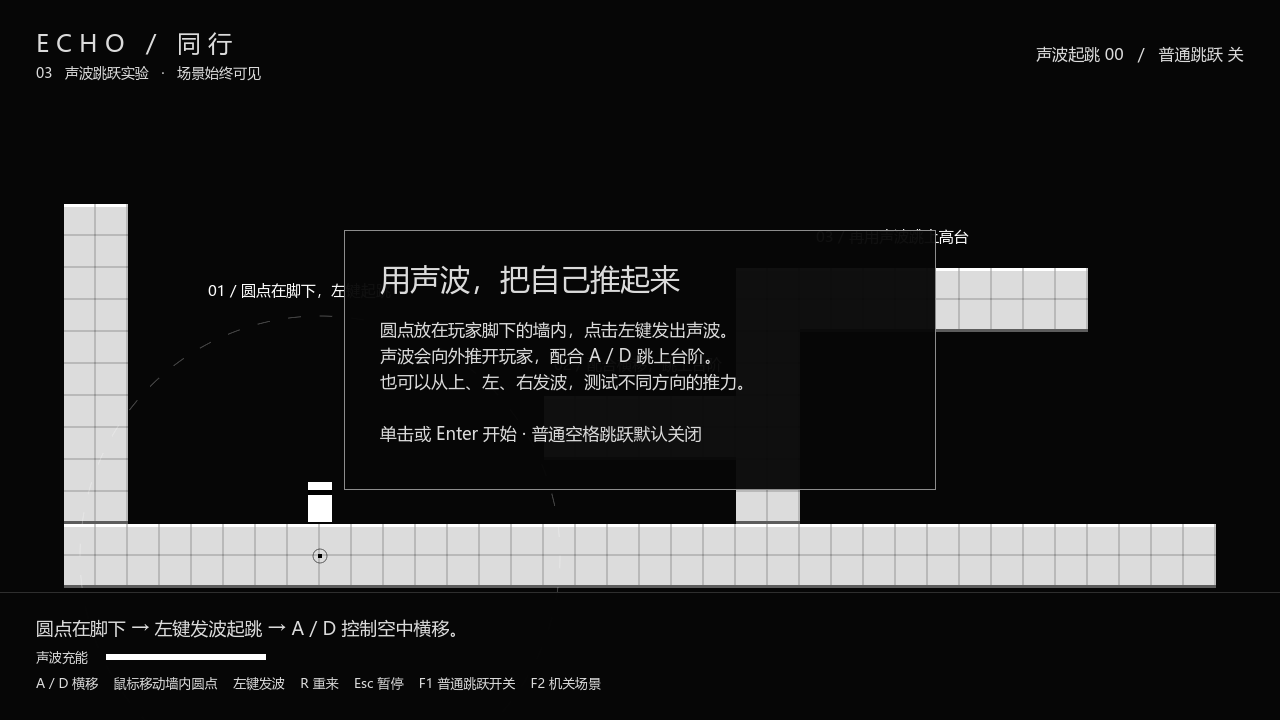
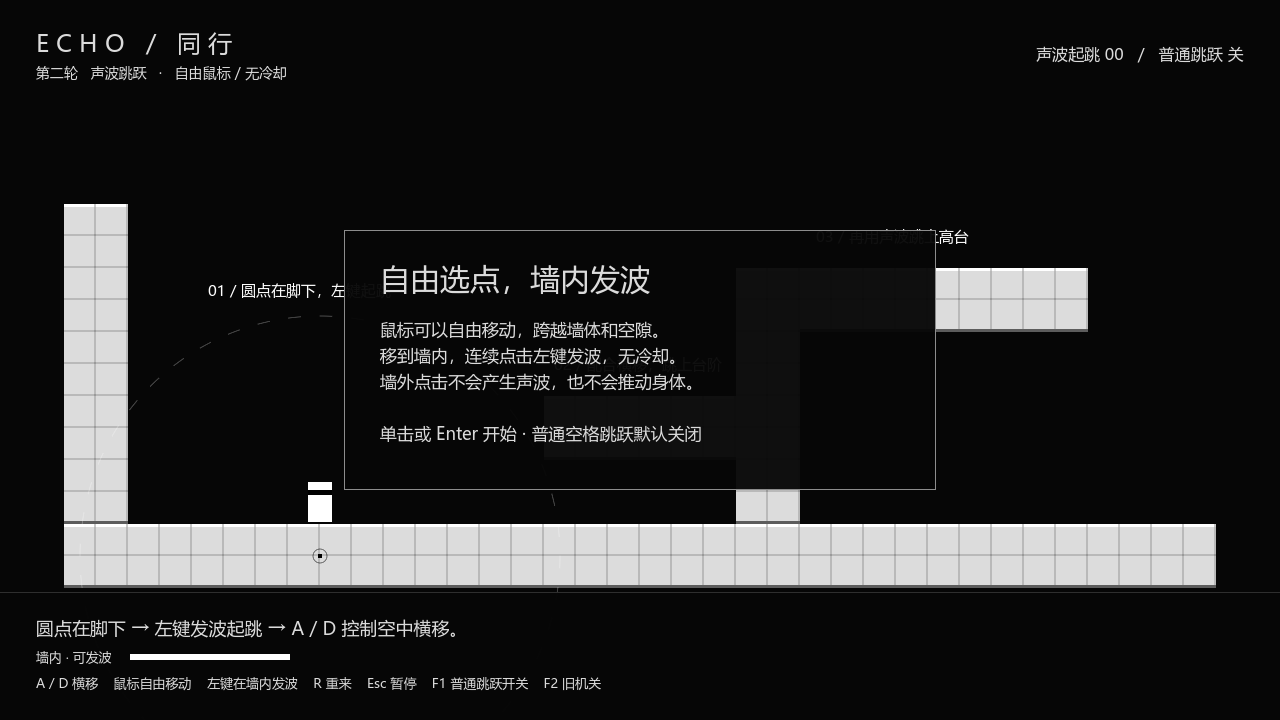
feat: allow free cursor with wall-only zero-cooldown pulses

diff --git a/README.md b/README.md
@@ -1,6 +1,6 @@
 # ECHO / 同行 · Godot 白盒
 
-**当前优先测试声波跳跃。** 场景始终可见，玩家用 A / D 横移；鼠标控制墙内的小圆点，点击产生有限范围的声波，从下方把玩家推离地面，配合空中横移跳上台阶。也能测试向下、向左、向右的推力，以及撞墙反弹。
+**当前为第二轮声波跳跃测试。** 场景始终可见，玩家用 A / D 横移；鼠标可以自由移动，只有在墙体内部点击才会产生有限范围的声波。声波默认无冷却，可连续点击，从下方把玩家推离地面，配合空中横移跳上台阶。也能测试向下、向左、向右的推力，以及撞墙反弹。
 
 Godot **4.7.2 标准版 + GDScript**，无第三方插件，无需 .NET。完整工程入口为根目录 `project.godot`。项目根据当前讨论新建，未导入 WorkBuddy 原 demo 源码。
 
@@ -19,8 +19,8 @@ Windows 启动器会检查 `GODOT_EXE` 环境变量、系统命令和桌面的 G
 | 输入 | 功能 |
 |---|---|
 | A / D 或左右方向键 | 身体横移，空中也可控制方向 |
-| 移动鼠标 | 移动墙体内部的感知圆点 |
-| 鼠标左键 | 从圆点处发出声波 |
+| 移动鼠标 | 自由移动感知圆点，可直接跨越空隙 |
+| 鼠标左键 | 圆点在墙内时发波，无冷却；墙外点击无效 |
 | F1 | 开关普通空格跳跃，用于对比手感；默认关闭 |
 | R | 重置身体、圆点与当前声波 |
 | Esc | 暂停并释放鼠标 |
@@ -28,13 +28,13 @@ Windows 启动器会检查 `GODOT_EXE` 环境变量、系统命令和桌面的 G
 
 ## 如何验证跳跃
 
-1. 开始后，圆点已经位于身体脚下的地面内部。直接按左键即可向上起跳。
+1. 开始后，将鼠标移到身体脚下的地面内部，再按左键向上起跳。
 2. 身体靠近第一层台阶前，在脚下发波；起跳后配合 D 向右移动，落到台阶上。
-3. 将圆点从地面沿中间墙体移入第一层台阶，再从脚下发波，跳上第二层高台。
+3. 将鼠标直接移入第一层台阶内部，再从脚下发波，跳上第二层高台；无需沿墙体移动圆点。
 4. 把圆点放到身体的上方、左侧或右侧，可验证相反方向的推力。虚线圈表示声波最大范围。
 5. 用 A / D 撞击左墙或中间墙体，可观察反作用力和撞击波纹。
 
-声波按时间向外传播，每一波最多推同一玩家一次，范围外不受力。发波有短暂冷却。普通按键跳跃默认关闭；F1 开启后可用空格、W 或上方向键对比普通跳跃手感。
+声波按时间向外传播，每一波最多推同一玩家一次，范围外不受力。默认冷却为 `0`，每次点击都能发波；也可将 `pulse_cooldown` 调成 `0.05` 等小值对比手感。鼠标按实际屏幕位置自由移动，发波只检查指针尖端是否位于墙体内；圆点在墙外显示无效标记，不会生成波纹、消耗发波次数或推动玩家。普通按键跳跃默认关闭；F1 开启后可用空格、W 或上方向键对比普通跳跃手感。
 
 ## 保留的 L 形机关
 
@@ -46,7 +46,7 @@ Windows 启动器会检查 `GODOT_EXE` 环境变量、系统命令和桌面的 G
 4. 圆点及时向上转移到下落平台；同时身体赶到 2 号板。
 5. 保持踩住 2 号板，将圆点通过连桥送进左上出口。
 
-铃铛触发后 1 号通道保持接通，2 号板则需要持续踩住。当前版本地图和身体都可见，没有视野外死亡。L 形机关暂时使用普通跳跃；声波推力先在独立测试场验证，后续可接入机关。
+铃铛触发后 1 号通道保持接通，2 号板则需要持续踩住。地图和身体都可见，没有视野外死亡。这个保留场景仍使用早期的墙内圆点和普通跳跃规则；第二轮自由鼠标与声波推力在默认跳跃测试场验证，后续可接入机关。
 
 ![L 形机关地图](docs/previews/l-puzzle.png)
 
@@ -59,7 +59,7 @@ Windows 启动器会检查 `GODOT_EXE` 环境变量、系统命令和桌面的 G
 | `scripts/wave_jump_lab.gd` | 声波范围、强度、冷却与测试状态 |
 | `scripts/force_pulse.gd` | 波前传播、距离衰减、四向推力和单次命中 |
 | `scripts/player.gd` | 移动、起跳、空中控制、落地与反作用力 |
-| `scripts/eye.gd` | 墙内圆点、鼠标灵敏度与禁止跨空隙传送 |
+| `scripts/eye.gd` | 默认跳跃场的自由鼠标定位与墙内发波判定，也保留旧机关的墙内约束模式 |
 | `scenes/levels/l_relay_puzzle.tscn` | 保留的 L 形机关地图 |
 | `scripts/l_relay_puzzle.gd` | 两个压力板、铃铛与平台接驳流程 |
 | `scenes/actors/` | 独立的身体、圆点、平台、压力板等复用场景 |

diff --git a/docs/当前测试需求.md b/docs/当前测试需求.md
@@ -10,9 +10,16 @@ Godot 工程入口：根目录 `project.godot`。
 
 ## 当前优先事项：声波推动玩家跳跃
 
+### 第二轮更新
+
+- 声波默认无冷却，每次点击都可以发波；仍可在 Inspector 将 `pulse_cooldown` 改成 `0.05` 等小值。
+- 鼠标自由移动，可离开墙体并直接跨过空隙，不再被平台承载或墙体边界限制。
+- 只有指针尖端位于墙体内时，点击才会生成声波并与角色产生推力交互；墙外点击无效。
+- 此轮没有第 3 项补充。这些更新应用于默认声波跳跃测试场；保留的 L 形机关仍采用早期操控规则。
+
 1. 场景始终可见，关闭声波观察场景的限制，并移除感知点离开视野导致死亡的规则。
 2. 玩家保留 A / D 左右移动。
-3. 鼠标控制墙体内的感知点，点击后发出有限范围的声波。
+3. 鼠标控制可自由移动的感知点，只有在墙体内点击才会发出有限范围的声波。
 4. 声波从发射中心向外传播，命中玩家时产生上下左右的推力。优先验证从下方推动玩家离地的跳跃手感。
 5. 默认关闭空格直接起跳，保留一个测试开关，用于对比普通跳跃与声波推力。
 6. 玩家撞击墙壁时产生反作用力。
@@ -38,7 +45,7 @@ Godot 工程入口：根目录 `project.godot`。
 ## 当前操作
 
 - A / D 或左右方向键：身体移动。
-- 鼠标移动：墙内感知点独立移动。
+- 鼠标移动：自由移动感知点，墙内位置可发波，墙外位置点击无效。
 - 鼠标左键：铃铛交互；声波测试场景中用于发射声波。
 - R：重置测试。
 - Esc：暂停并释放鼠标。

diff --git a/docs/verification.md b/docs/verification.md
@@ -2,7 +2,7 @@
 
 2026-11-13，本机 Godot 4.7.2 标准版。
 
-- 声波跳跃：19 项通过。包括默认关闭普通起跳、声波起跳、稳定落地、超过 128 像素的起跳高度、四向推力、有限范围、单波单次命中、撞墙反作用力，以及实际操控下连续登上两层平台。
+- 第二轮声波跳跃：31 项通过。包括原有起跳、落地、四向推力、有限范围、单波单次命中、撞墙反弹和连续登台，以及自由鼠标定位、跨空隙选点、墙外点击无效、10 次连续无冷却发波、可选极短冷却、零冷却界面数值稳定、墙边指针判定和无鼠标移动事件时的真实点击位置。
 - L 形机关：20 项通过。包括压力板接通、进入右墙、点击铃铛、横移承载、下落平台、向上转移、第二块压力板连桥、到达出口、连接中断和超时失败。
 - 早期移动平台回归：27 项通过。覆盖双操控、墙内约束、禁止跨空隙、平台承载、完整通行、跳跃、视野死亡与重生。视野规则只存在于保留的早期场景，不在当前默认测试场中启用。
 - 实际图形渲染：已截图检查跳跃离地、常亮地图和可见玩家；L 形场景也检查了常亮地图和关闭状态的通道。
